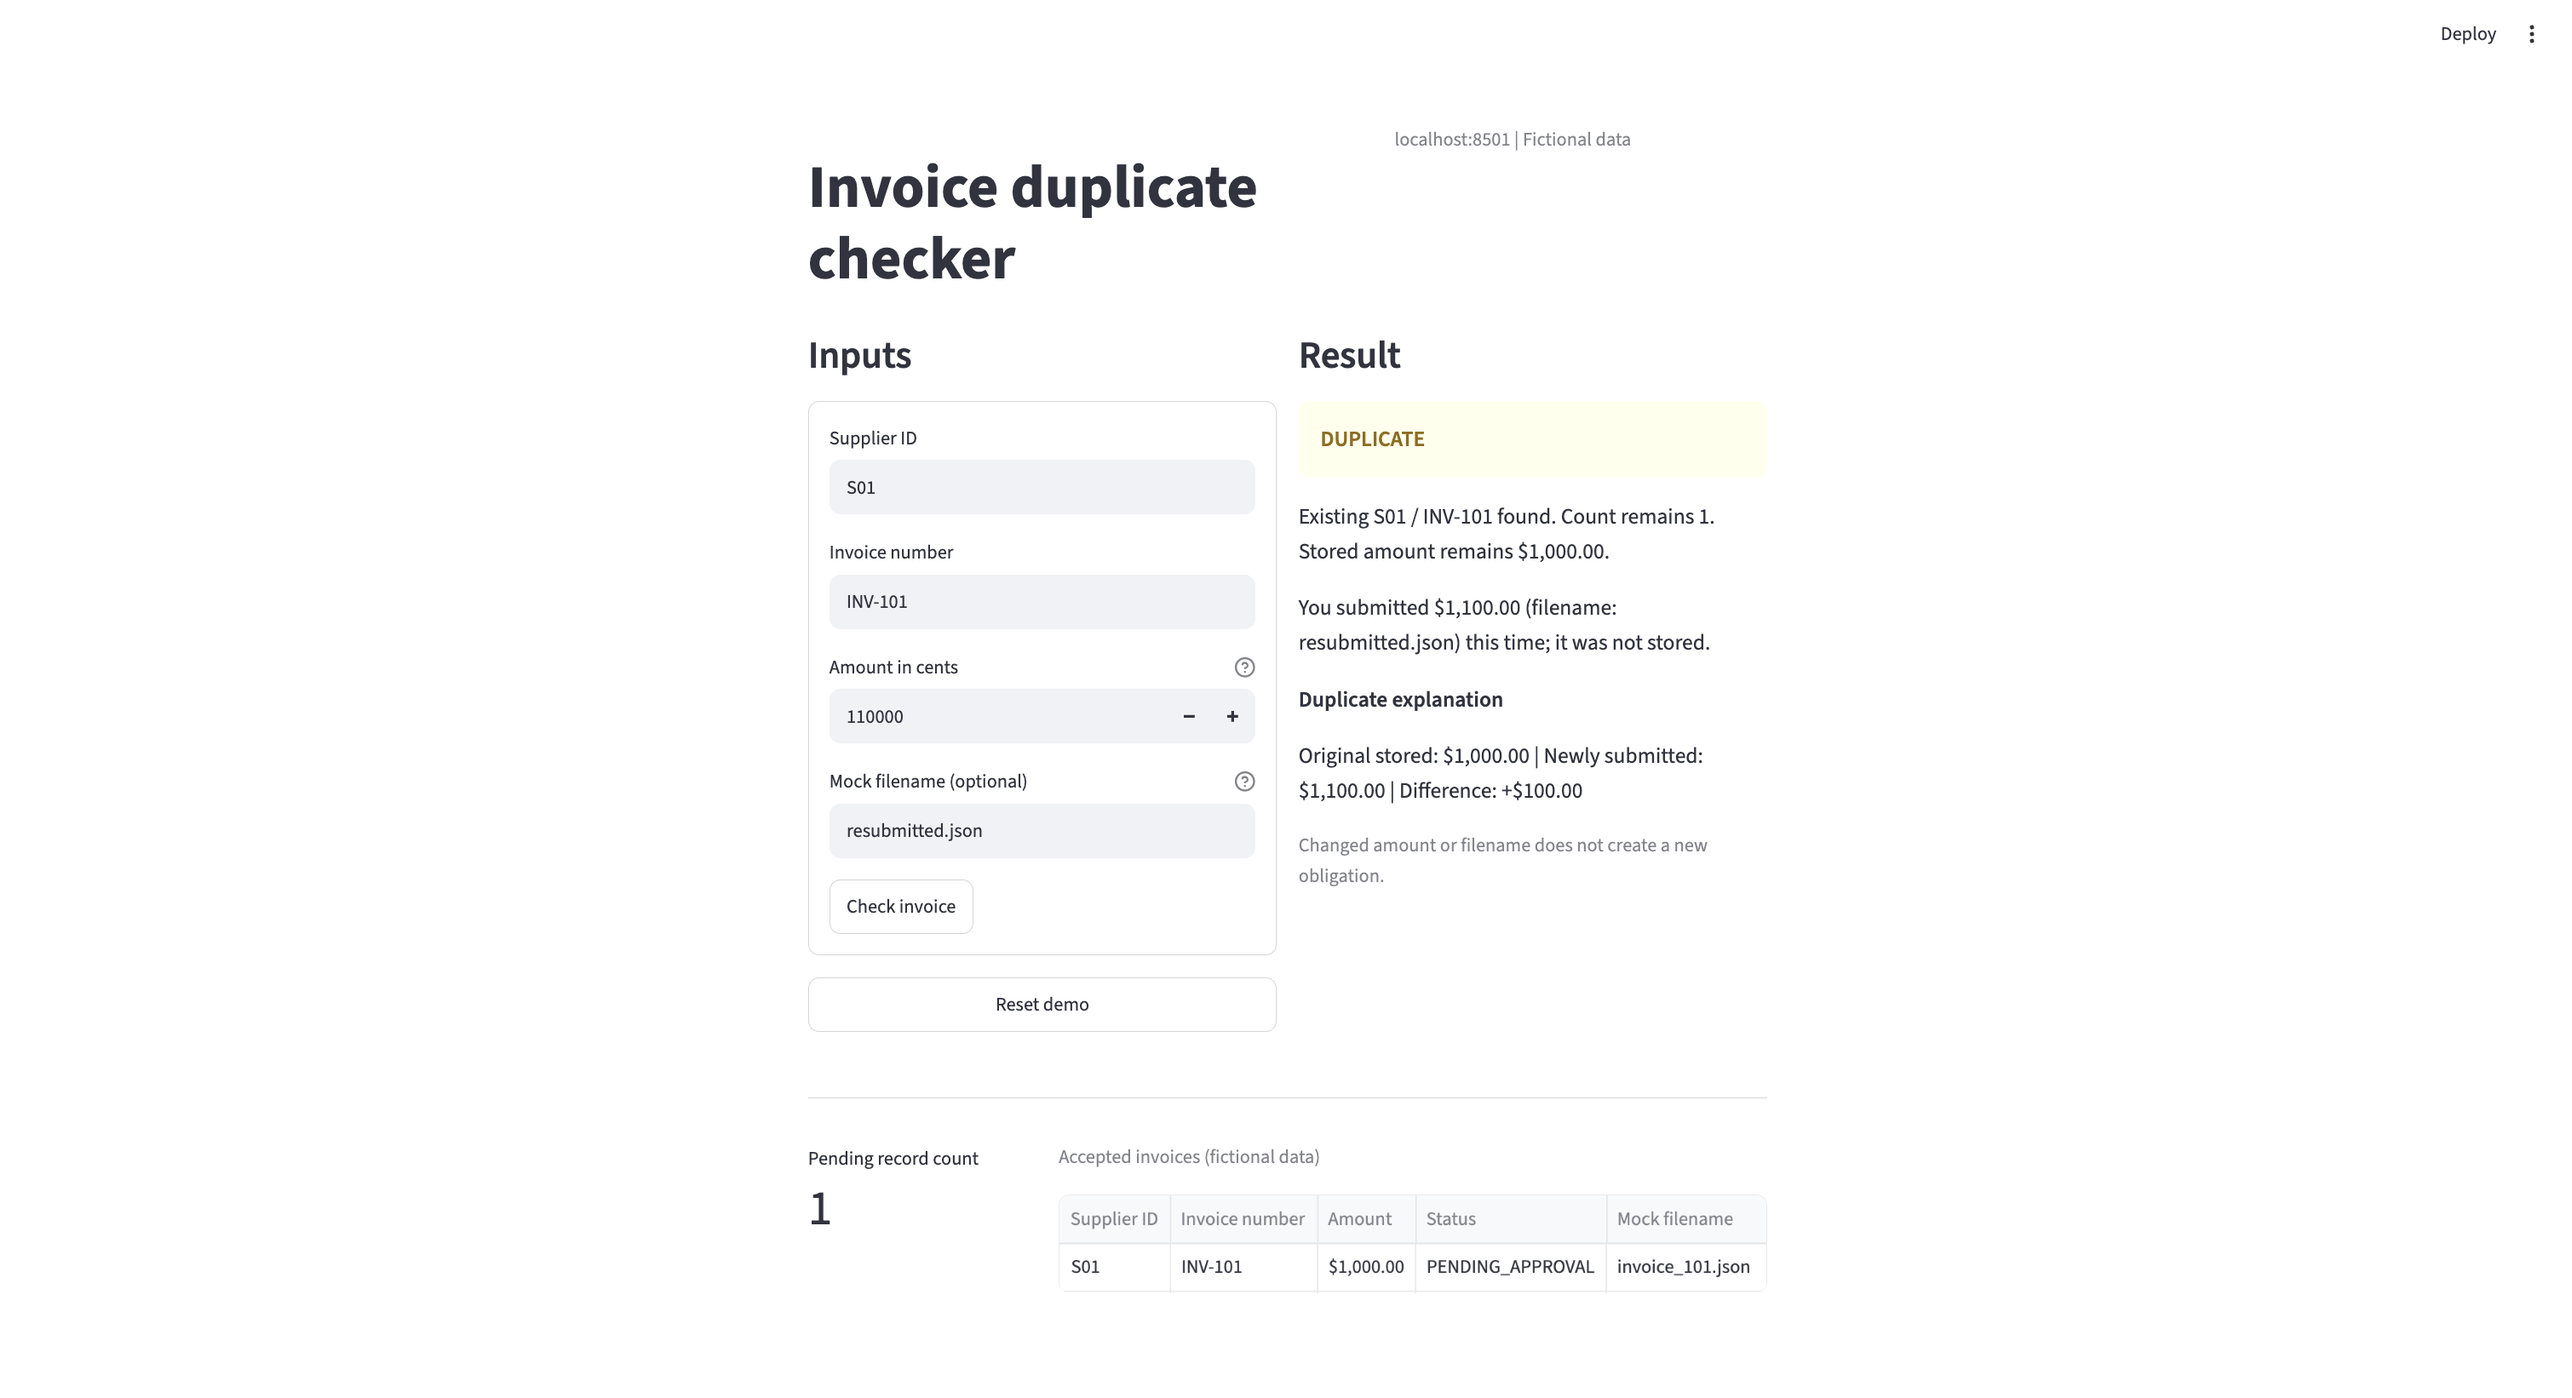
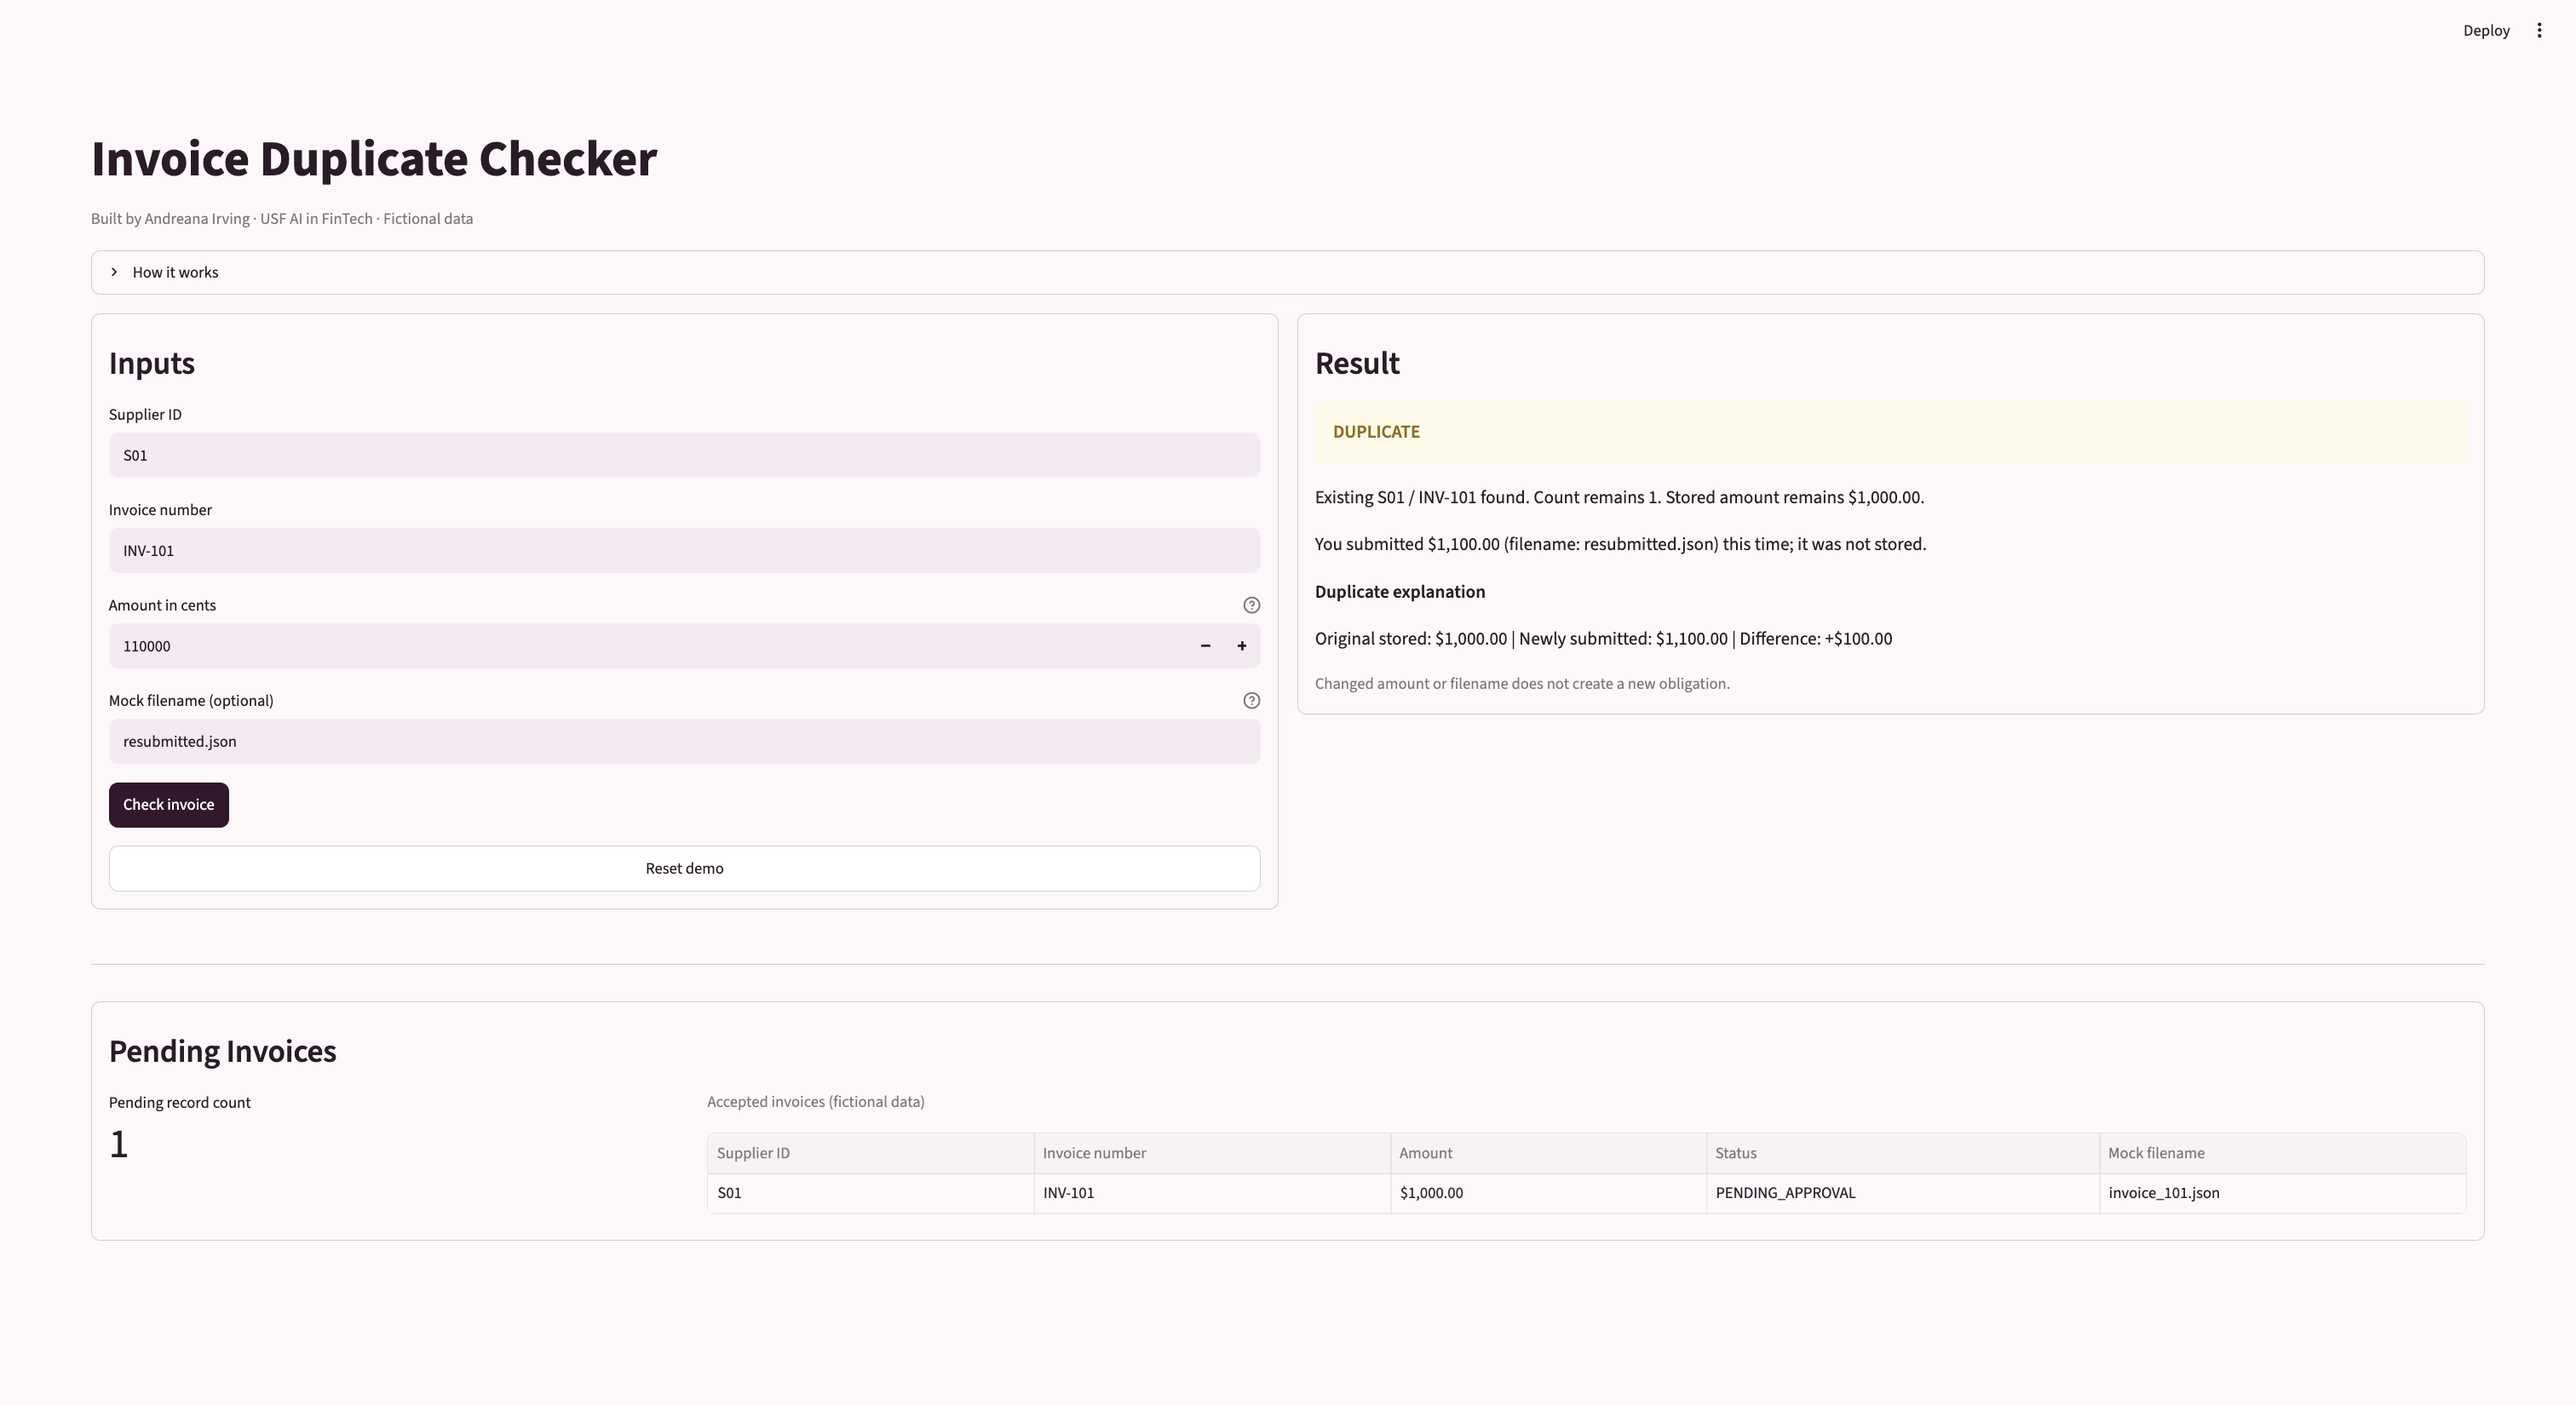
Style the screen and update docs

diff --git a/app.py b/app.py
@@ -14,7 +14,9 @@ from logic import (
     duplicate_explanation,
 )
 
-st.set_page_config(page_title="Invoice duplicate checker", page_icon="🧾")
+st.set_page_config(
+    page_title="Invoice Duplicate Checker", page_icon="🧾", layout="wide"
+)
 
 
 def _format_dollars(amount_cents):
@@ -54,36 +56,46 @@ if "last_submitted_amount_cents" not in st.session_state:
 if "last_submitted_filename" not in st.session_state:
     st.session_state["last_submitted_filename"] = None
 
-header_left, header_right = st.columns([3, 2])
-with header_left:
-    st.title("Invoice duplicate checker")
-with header_right:
-    st.caption("localhost:8501 | Fictional data")
+st.title("Invoice Duplicate Checker")
+st.caption("Built by Andreana Irving · USF AI in FinTech · Fictional data")
+
+with st.expander("How it works", expanded=False):
+    st.write(
+        "Duplicates are detected by supplier ID plus invoice number, never by "
+        "filename or amount. A PENDING_APPROVAL record is not approval to pay — "
+        "an AP reviewer still has to approve it."
+    )
 
 input_col, result_col = st.columns(2)
 
 with input_col:
-    st.subheader("Inputs")
-    with st.form("invoice_form", clear_on_submit=False):
-        supplier_id = st.text_input("Supplier ID", placeholder="S01")
-        invoice_number = st.text_input("Invoice number", placeholder="INV-101")
-        amount_cents = st.number_input(
-            "Amount in cents",
-            min_value=-1_000_000_000,
-            max_value=1_000_000_000,
-            value=0,
-            step=1,
-            format="%d",
-            help="Fictional amount in USD cents, e.g. 100000 = $1,000.00.",
-        )
-        filename = st.text_input(
-            "Mock filename (optional)",
-            placeholder="invoice_101.json",
-            help="Fictional label only — never used as part of the duplicate key.",
-        )
-        submitted = st.form_submit_button("Check invoice")
+    with st.container(border=True):
+        st.subheader("Inputs")
+        with st.form("invoice_form", clear_on_submit=False, border=False):
+            supplier_id = st.text_input("Supplier ID", placeholder="S01")
+            invoice_number = st.text_input("Invoice number", placeholder="INV-101")
+            amount_cents = st.number_input(
+                "Amount in cents",
+                min_value=-1_000_000_000,
+                max_value=1_000_000_000,
+                value=0,
+                step=1,
+                format="%d",
+                help="Fictional amount in USD cents, e.g. 100000 = $1,000.00.",
+            )
+            filename = st.text_input(
+                "Mock filename (optional)",
+                placeholder="invoice_101.json",
+                help="Fictional label only — never used as part of the duplicate key.",
+            )
+            submitted = st.form_submit_button("Check invoice", type="primary")
 
-    st.button("Reset demo", on_click=_reset_demo, use_container_width=True)
+        st.button(
+            "Reset demo",
+            on_click=_reset_demo,
+            type="secondary",
+            use_container_width=True,
+        )
 
     if submitted:
         invoice = {
@@ -99,72 +111,75 @@ with input_col:
         st.session_state["last_submitted_filename"] = invoice["filename"]
 
 with result_col:
-    st.subheader("Result")
-    result = st.session_state["last_result"]
+    with st.container(border=True):
+        st.subheader("Result")
+        result = st.session_state["last_result"]
 
-    if result is None:
-        st.info("Submit the form to check an invoice.")
-    elif result["status"] == STATUS_PENDING:
-        record = result["invoice"]
-        st.success(f"**{STATUS_PENDING}**")
-        st.write(
-            f"New invoice recorded. Key: {record['supplier_id']} / "
-            f"{record['invoice_number']}. Pending record count: "
-            f"{len(st.session_state['invoices'])}. Amount: "
-            f"{_escape_markdown_dollar(_format_dollars(record['amount_cents']))}."
-        )
-        st.write("This invoice is awaiting AP reviewer approval and has not been approved or paid.")
-        st.caption("No payment request has been authorized.")
-    elif result["status"] == STATUS_DUPLICATE:
-        existing = result["existing_invoice"]
-        submitted_amount = st.session_state["last_submitted_amount_cents"]
-        submitted_filename = st.session_state["last_submitted_filename"]
-        st.warning(f"**{STATUS_DUPLICATE}**")
-        st.write(
-            f"Existing {existing['supplier_id']} / {existing['invoice_number']} "
-            f"found. Count remains {len(st.session_state['invoices'])}. "
-            f"Stored amount remains {_escape_markdown_dollar(_format_dollars(existing['amount_cents']))}."
-        )
-        st.write(
-            f"You submitted {_escape_markdown_dollar(_format_dollars(submitted_amount))} "
-            f"(filename: {submitted_filename or '—'}) this time; it was not stored."
-        )
-        explanation = duplicate_explanation(existing, {"amount_cents": submitted_amount})
-        st.markdown("**Duplicate explanation**")
-        original_md = _escape_markdown_dollar(_format_dollars(explanation["original_amount_cents"]))
-        submitted_md = _escape_markdown_dollar(_format_dollars(explanation["submitted_amount_cents"]))
-        difference_md = _escape_markdown_dollar(_format_signed_dollars(explanation["difference_cents"]))
-        st.write(
-            f"Original stored: {original_md} | "
-            f"Newly submitted: {submitted_md} | "
-            f"Difference: {difference_md}"
-        )
-        st.caption("Changed amount or filename does not create a new obligation.")
-    else:  # STATUS_INVALID
-        st.error(f"**{STATUS_INVALID}**")
-        st.write(result["reason"])
-        st.caption("No record was created or changed.")
+        if result is None:
+            st.caption("Submit the form to check an invoice.")
+        elif result["status"] == STATUS_PENDING:
+            record = result["invoice"]
+            st.success(f"**{STATUS_PENDING}**")
+            st.write(
+                f"New invoice recorded. Key: {record['supplier_id']} / "
+                f"{record['invoice_number']}. Pending record count: "
+                f"{len(st.session_state['invoices'])}. Amount: "
+                f"{_escape_markdown_dollar(_format_dollars(record['amount_cents']))}."
+            )
+            st.write("This invoice is awaiting AP reviewer approval and has not been approved or paid.")
+            st.caption("No payment request has been authorized.")
+        elif result["status"] == STATUS_DUPLICATE:
+            existing = result["existing_invoice"]
+            submitted_amount = st.session_state["last_submitted_amount_cents"]
+            submitted_filename = st.session_state["last_submitted_filename"]
+            st.warning(f"**{STATUS_DUPLICATE}**")
+            st.write(
+                f"Existing {existing['supplier_id']} / {existing['invoice_number']} "
+                f"found. Count remains {len(st.session_state['invoices'])}. "
+                f"Stored amount remains {_escape_markdown_dollar(_format_dollars(existing['amount_cents']))}."
+            )
+            st.write(
+                f"You submitted {_escape_markdown_dollar(_format_dollars(submitted_amount))} "
+                f"(filename: {submitted_filename or '—'}) this time; it was not stored."
+            )
+            explanation = duplicate_explanation(existing, {"amount_cents": submitted_amount})
+            st.markdown("**Duplicate explanation**")
+            original_md = _escape_markdown_dollar(_format_dollars(explanation["original_amount_cents"]))
+            submitted_md = _escape_markdown_dollar(_format_dollars(explanation["submitted_amount_cents"]))
+            difference_md = _escape_markdown_dollar(_format_signed_dollars(explanation["difference_cents"]))
+            st.write(
+                f"Original stored: {original_md} | "
+                f"Newly submitted: {submitted_md} | "
+                f"Difference: {difference_md}"
+            )
+            st.caption("Changed amount or filename does not create a new obligation.")
+        else:  # STATUS_INVALID
+            st.error(f"**{STATUS_INVALID}**")
+            st.write(result["reason"])
+            st.caption("No record was created or changed.")
 
 st.divider()
 
-count_col, table_col = st.columns([1, 3])
-with count_col:
-    st.metric("Pending record count", len(st.session_state["invoices"]))
+with st.container(border=True):
+    st.subheader("Pending Invoices")
+    count_col, table_col = st.columns([1, 3])
+    with count_col:
+        st.metric("Pending record count", len(st.session_state["invoices"]))
 
-with table_col:
-    st.caption("Accepted invoices (fictional data)")
-    records = st.session_state["invoices"]
-    if records:
-        rows = [
-            {
-                "Supplier ID": record["supplier_id"],
-                "Invoice number": record["invoice_number"],
-                "Amount": _format_dollars(record["amount_cents"]),
-                "Status": record["status"],
-                "Mock filename": record["filename"] or "—",
-            }
-            for key, record in sorted(records.items())
-        ]
-        st.dataframe(rows, use_container_width=True, hide_index=True)
-    else:
-        st.write("No accepted invoices yet.")
+    with table_col:
+        st.caption("Accepted invoices (fictional data)")
+        records = st.session_state["invoices"]
+        if records:
+            rows = [
+                {
+                    "Supplier ID": record["supplier_id"],
+                    "Invoice number": record["invoice_number"],
+                    "Amount": _format_dollars(record["amount_cents"]),
+                    "Status": record["status"],
+                    "Mock filename": record["filename"] or "—",
+                }
+                for key, record in sorted(records.items())
+            ]
+            st.dataframe(rows, use_container_width=True, hide_index=True)
+        else:
+            st.write("No accepted invoices yet.")

diff --git a/AI_USAGE.md b/AI_USAGE.md
@@ -158,6 +158,16 @@ which does not parse Markdown.
 The unit tests did not catch it because they only cover `logic.py`, not
 the screen.
 
+### Screen styling
+I asked Claude Code to add a plum theme in `.streamlit/config.toml` and
+polish `app.py` with bordered cards, a primary Check invoice button, a
+pending count metric, a How It Works expander, a subtitle with my name,
+wide layout and title-case headings. I used Claude chat for design
+suggestions and color choices. `logic.py` and the tests were not changed.
+After the changes I rechecked the normal, duplicate, different-supplier
+and invalid cases in the browser, reran the tests (18 OK), and retook
+`normal.png` and `failure.png`.
+
 ### Prompt 5 — Prepare a reproducible submission
 > Write README.md with my name, purpose, exact setup/test/run commands,
 > normal and failure examples, and limits. Record my prompts, generated

diff --git a/README.md b/README.md
@@ -31,6 +31,7 @@ README.md            # this file
 AI_USAGE.md          # prompts and verification record
 requirements.txt     # installed Streamlit version
 .gitignore           # excludes .venv, caches, and local-only files
+.streamlit/config.toml  # Streamlit theme (plum and white)
 ```
 
 ## Setup
